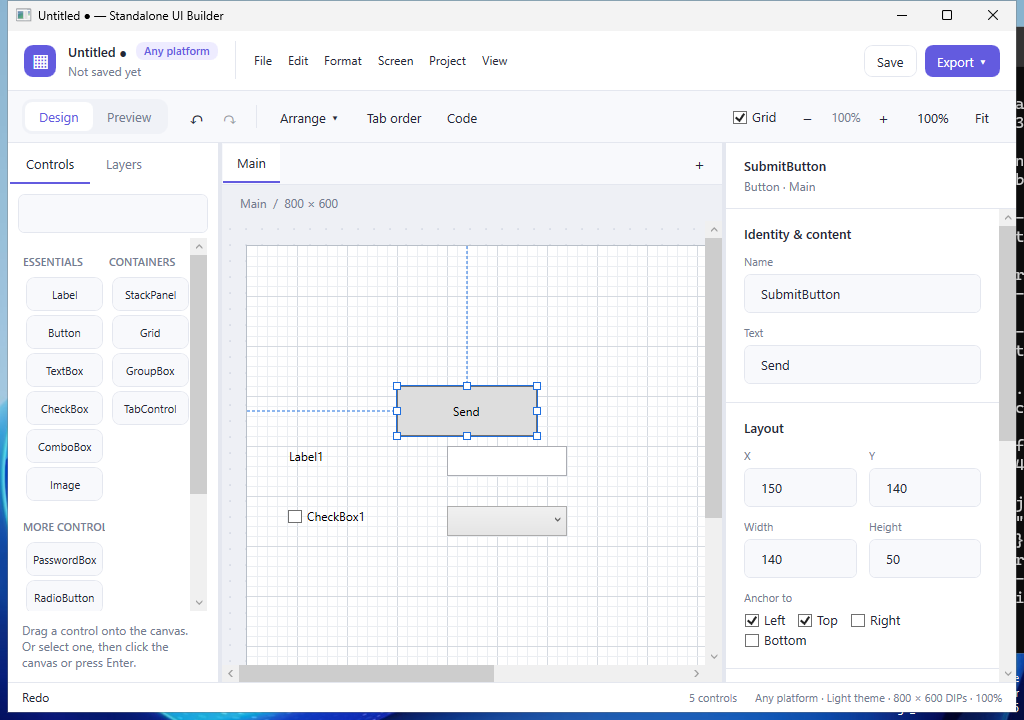
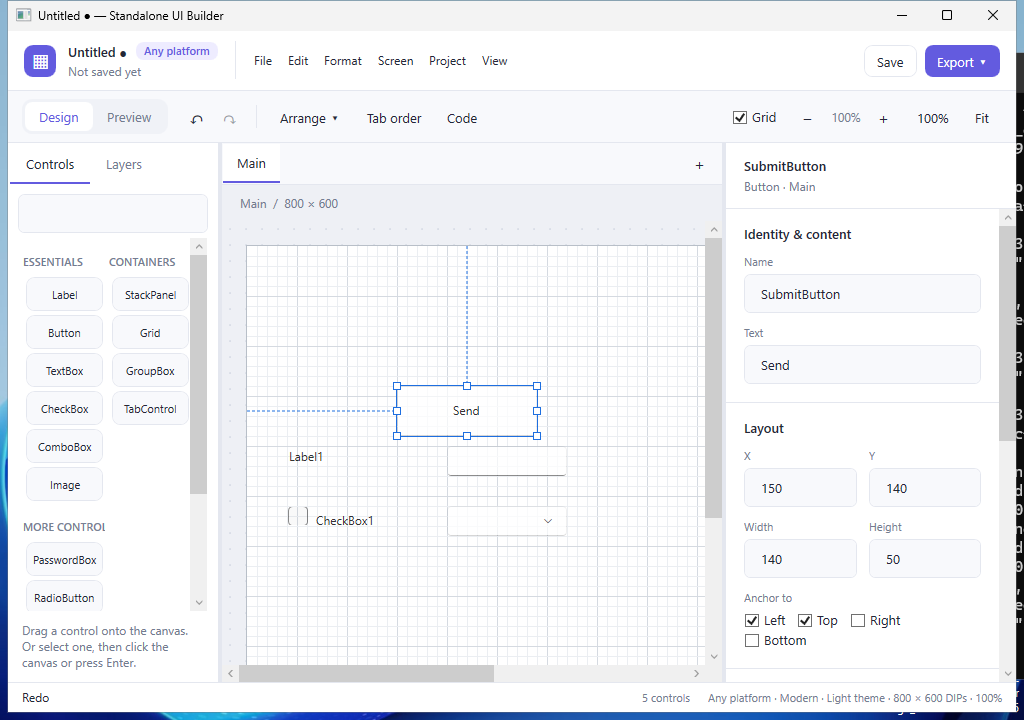
Docs: screenshots in the modern style, and classic and modern side by side
Claude-Session: https://claude.ai/code/session_016LSfgogfJxT7o7ohqTWCmt

diff --git a/docs/user-guide.md b/docs/user-guide.md
@@ -123,6 +123,8 @@ stands out.
 Windows Forms, WinUI and MAUI apps already draw their controls in the current Windows or
 device style, so they look the same in both. WPF's dark and system themes are always Fluent.
 
+![The customer form exported to WPF in each style](screenshots/style-classic-modern.png)
+
 ## Data binding, commands and code
 
 Each screen can have a **view model**: a class, generated with the export, that holds the
